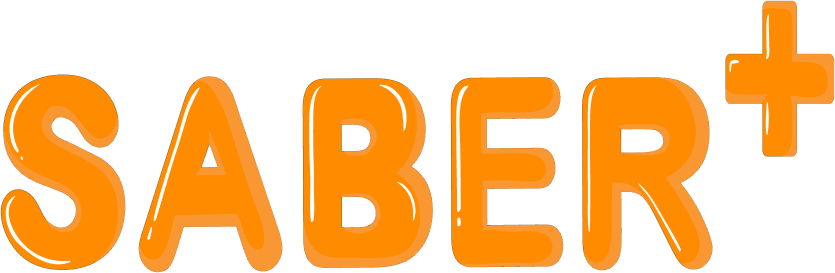
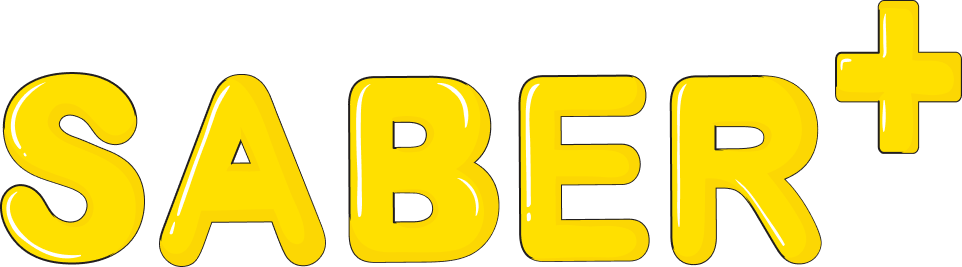
shortcut screen for finished app

diff --git a/src/screens/SignIn/index.tsx b/src/screens/SignIn/index.tsx
@@ -1,11 +1,7 @@
 import React, { useCallback } from "react";
-import { View, Image, StatusBar, Linking, Alert, ImageBackground } from 'react-native';
+import { View, StatusBar, Linking, Alert, ImageBackground } from 'react-native';
 
 import ImgFundo from '../../assets/imgFundo.png';
-import LogoRussas from '../../assets/logoRussas.png';
-import IllustrationImg from '../../assets/illustration.png';
-import Menina from '../../assets/menina.png';
-import Menino from '../../assets/menino.png';
 import { styles } from "./styles";
 import { ButtonIcon } from "../../components/Buttonicon";
 
@@ -32,34 +28,6 @@ export function SignIn() {
           backgroundColor="transparent"
           translucent
         />
-        <View style={styles.logos} >
-          <Image
-            style={styles.logoRussas}
-            source={LogoRussas}
-            resizeMode="stretch"
-          />
-        </View>
-        <View style={styles.illustrationClic}>
-          <View>
-            <Image
-              style={styles.saber}
-              source={IllustrationImg}
-              resizeMode="stretch"
-            />
-          </View>
-          <View style={styles.meninaMenino}>
-            <Image
-              style={styles.menina}
-              source={Menina}
-              resizeMode="stretch"
-            />
-            <Image
-              style={styles.menino}
-              source={Menino}
-              resizeMode="stretch"
-            />
-          </View>
-        </View>
         <View style={styles.content}>
           <ButtonIcon title="Acessar Plataforma"
             activeOpacity={0.3}

diff --git a/src/screens/SignIn/styles.ts b/src/screens/SignIn/styles.ts
@@ -4,50 +4,15 @@ import { theme } from "../../global/styles/theme";
 export const styles = StyleSheet.create({
   container: {
     flex: 1,
-    //alignItems: 'center',
-    //backgroundColor : theme.colors.background
   },
   imgFundo:{
-    flex: 1,
-  },
-  logos:{
-    flex: 1,
-    flexDirection: "row",
-    marginTop: 50,
-    justifyContent: 'center'
-  },
-  logoRussas:{
-    width: 160,
-    height: 80
-  },
-  illustrationClic:{
-    flex: 3,
-    justifyContent: 'center',
-  },
-  saber: {    
-    alignSelf: 'center',
-    width: 250,
-    height: 150,
-
-  },
-  meninaMenino:{
-    flex: 1,
-    flexDirection: "row",
-    justifyContent: 'space-around',
-    marginTop: 50,
-  },
-  menina:{
-    width: 120,
-    height: 200
-  },
-  menino:{
-    width: 150,
-    height: 200
+    flex: 1
   },
   content: {
     flex: 1,
-    justifyContent: 'center',
+    justifyContent: 'flex-end',
     paddingHorizontal: 50,
+    marginBottom: 50
   },
   title: {
     color: theme.colors.heading,

diff --git a/src/global/styles/theme.ts b/src/global/styles/theme.ts
@@ -1,8 +1,8 @@
 export const theme = {
     colors:{
     background: "#A2CCD6",
-    primary: '#EE7B23',
-    heading: '#FFF',
-    line: '#BF6F00'
+    primary: '#FCD703',
+    heading: '#000',
+    line: '#FFC000'
   },
 }
